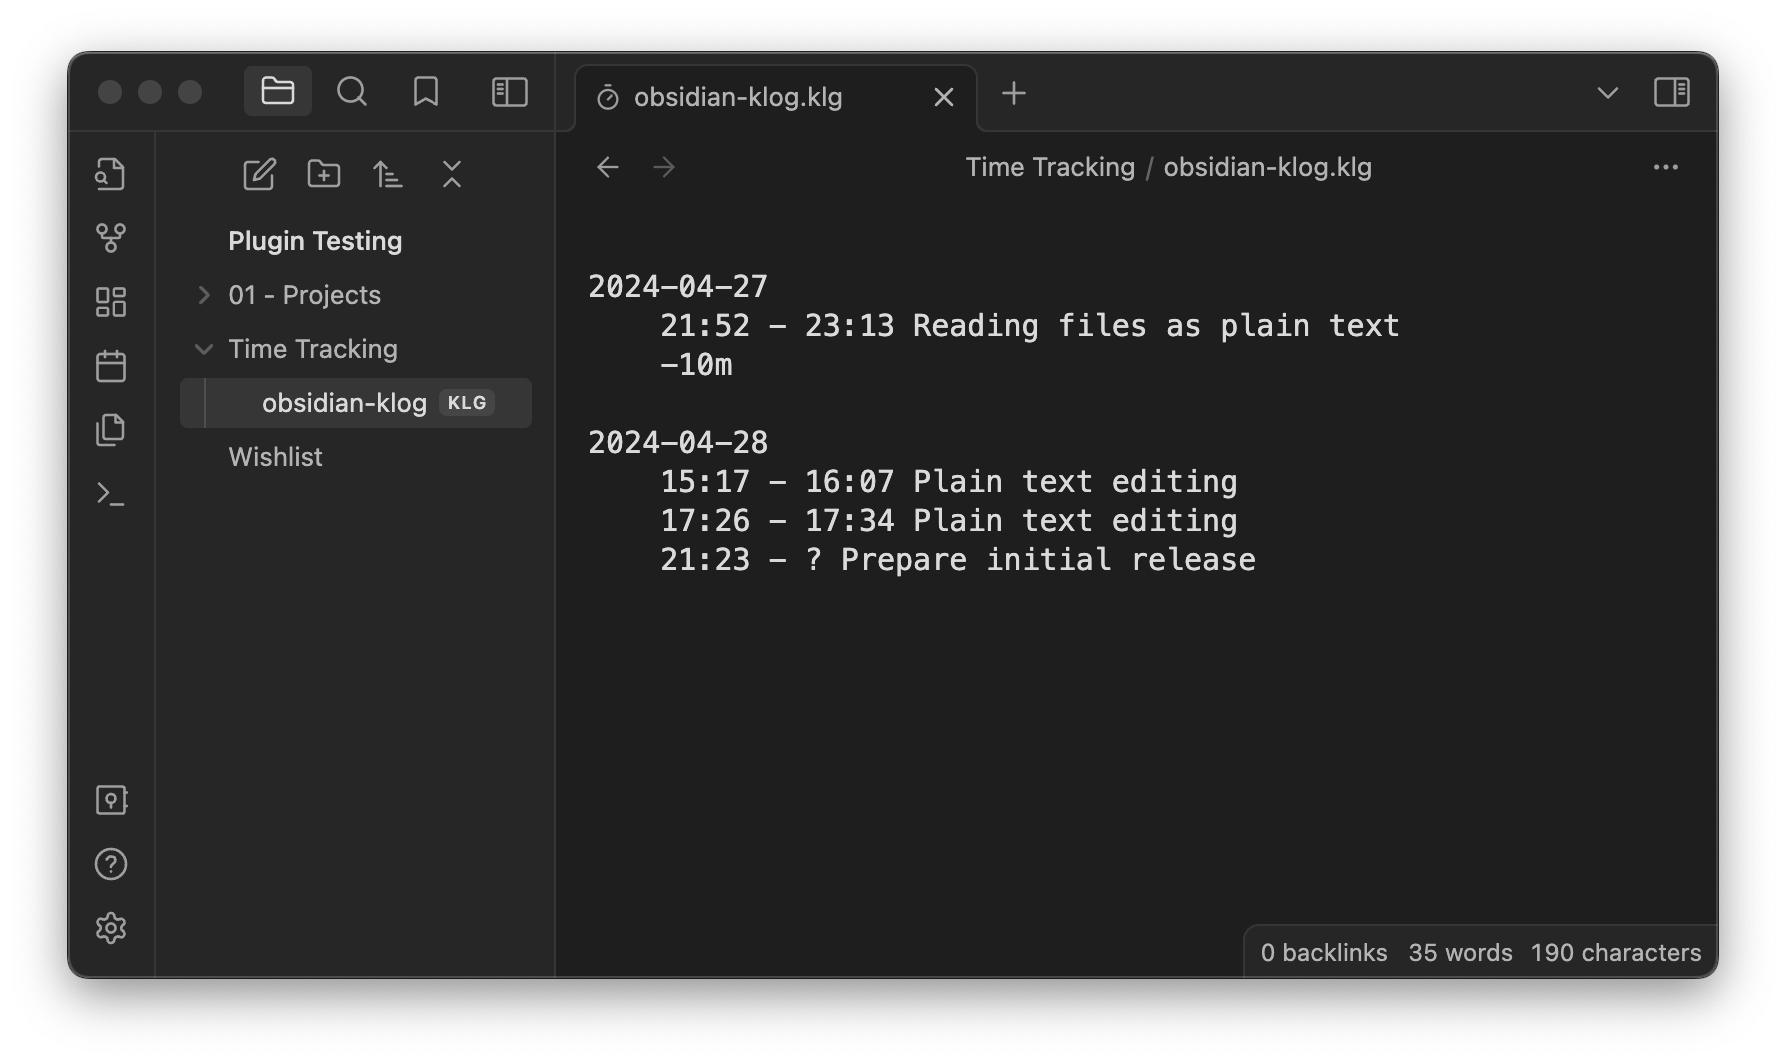
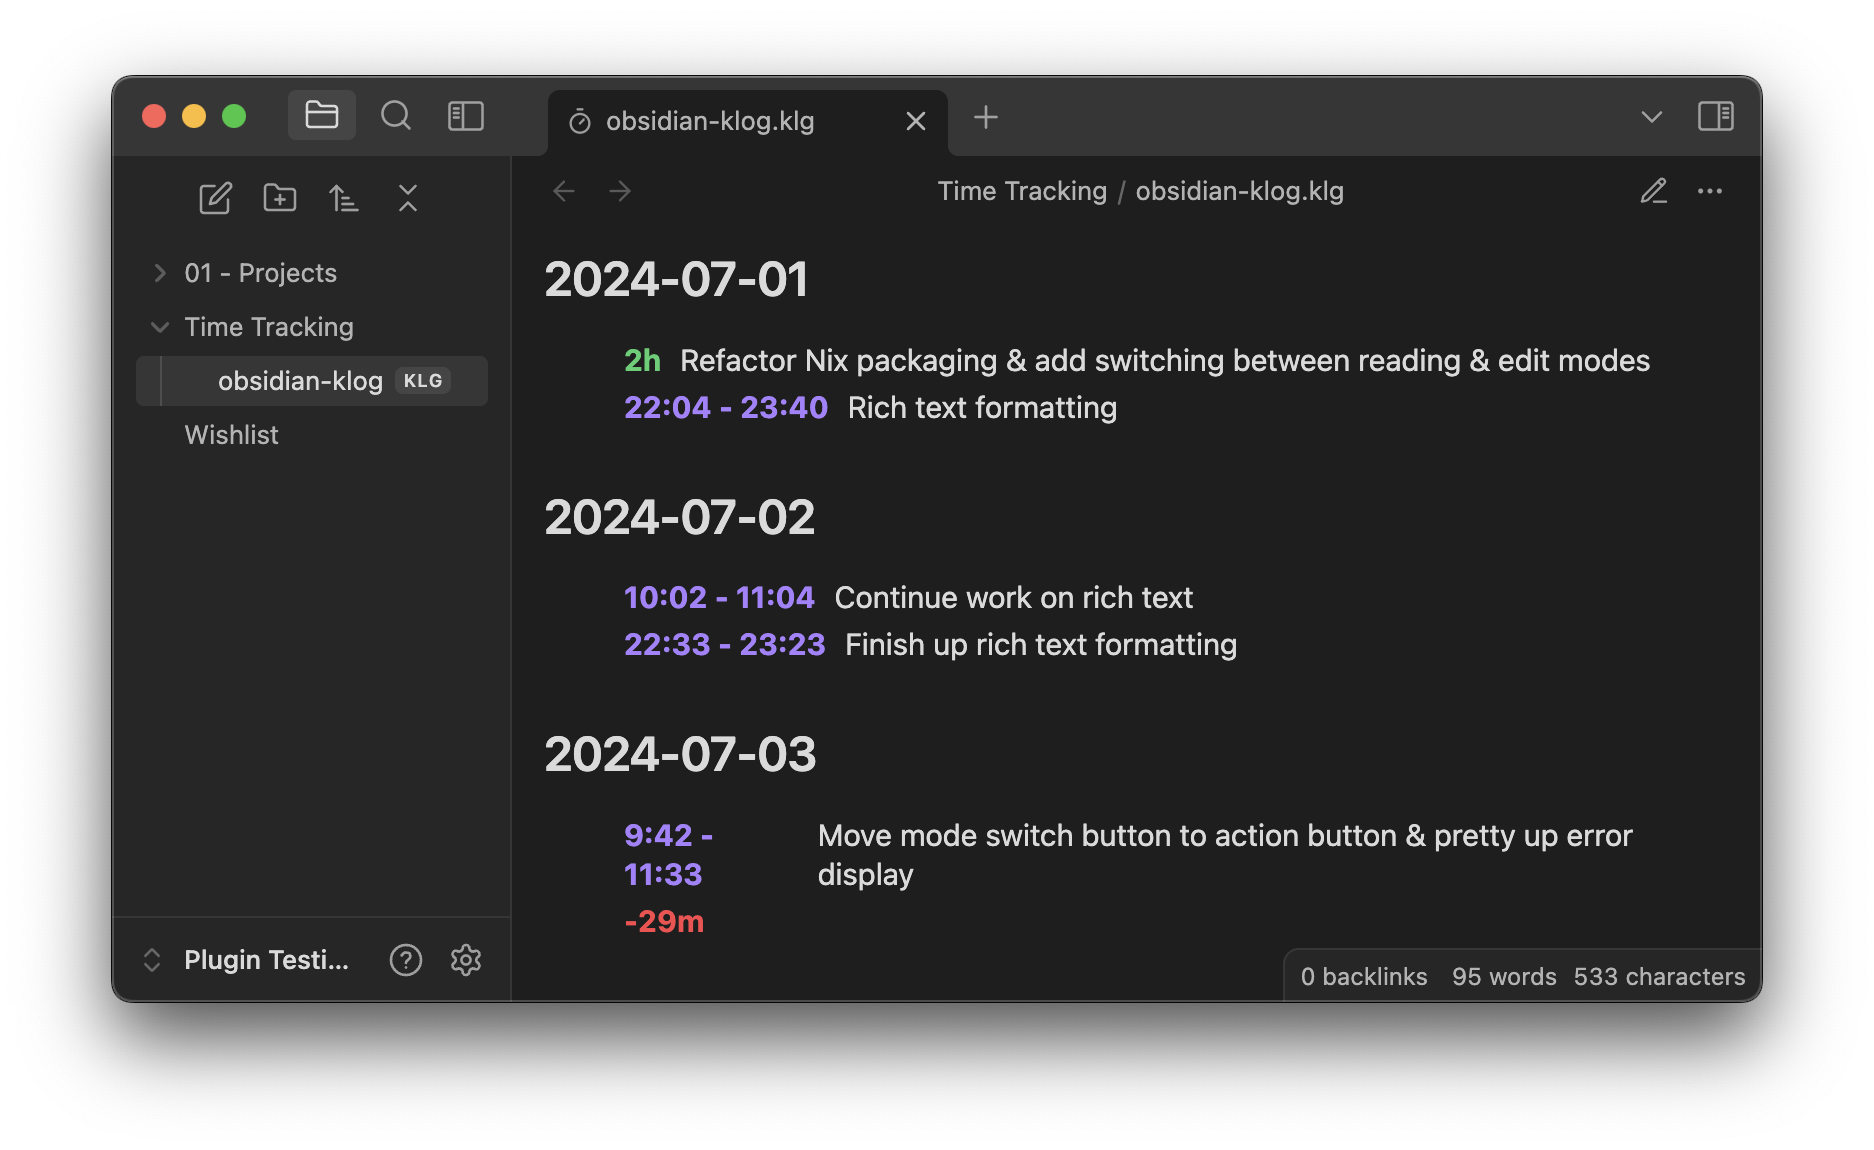
chore: update image & changelog

diff --git a/CHANGELOG.md b/CHANGELOG.md
@@ -6,6 +6,13 @@ The format is based on [Keep a Changelog](https://keepachangelog.com/en/1.1.0/),
 and this project adheres to
 [Semantic Versioning](https://semver.org/spec/v2.0.0.html).
 
+## [0.2.0] - 2024-07-05
+
+### Added
+
+- Rich text formatting for Klog files!
+- Button for switching between edit & preview mode, like Markdown.
+
 ## [0.1.0] - 2024-04-28
 
 Initial release!
@@ -14,4 +21,5 @@ Initial release!
 
 - Very rudimentary plain text viewing and editing of Klog files.
 
+[0.2.0]: https://github.com/ovyerus/obsidian-klog/releases/tag/v0.2.0
 [0.1.0]: https://github.com/ovyerus/obsidian-klog/releases/tag/0.1.0
